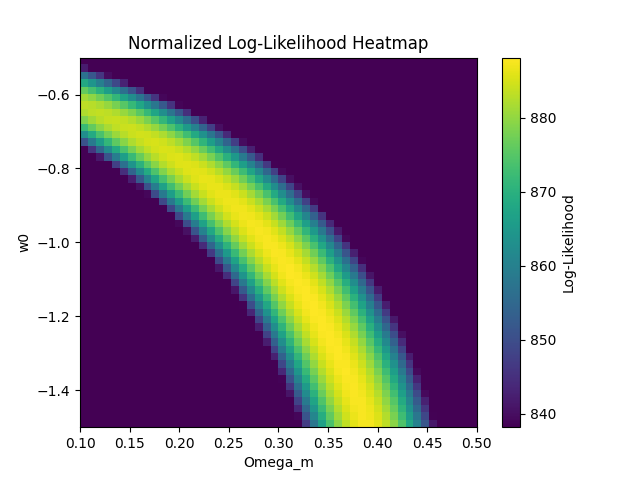
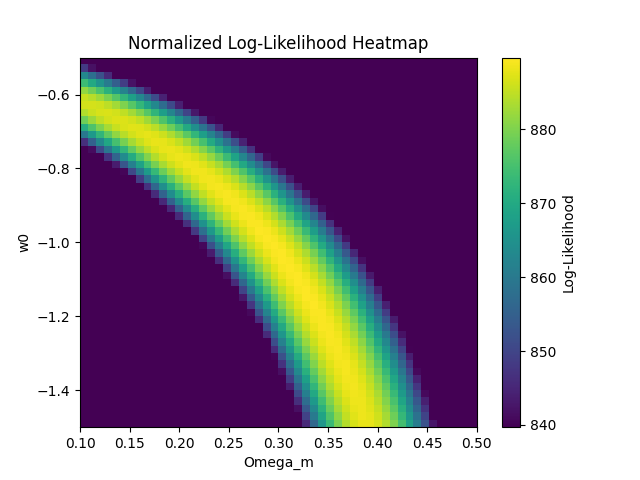
Allow selecting a cosmology

diff --git a/src/deschack2026/fit_sim_data.py b/src/deschack2026/fit_sim_data.py
@@ -30,7 +30,9 @@ m_std = 0.1
 z_std = 0.05
 
 
-def main(savename="posterior_samples", key=jax.random.PRNGKey(43), savefigs=True):
+def main(
+    savename="posterior_samples", key=jax.random.PRNGKey(43), savefigs=True, cosmo_param="wCDM"
+):
     z_max = 2.0
     cosmology = cg.Cosmology()
     # In principle can use any Cosmology for fiducial simulation
@@ -85,6 +87,8 @@ def main(savename="posterior_samples", key=jax.random.PRNGKey(43), savefigs=True
     opt_cosmology = cg.Cosmology()
     opt_cosmology.Omega_m.to_dynamic()
     opt_cosmology.w0.to_dynamic()
+    if cosmo_param == "w0waCDM":
+        opt_cosmology.wa.to_dynamic()
     load_dat = np.load("simulated_dataset.npz")
     NLL = NormalizedLikelihood(
         load_dat["z_sel"], load_dat["m_sel"], load_dat["z_std"], load_dat["m_std"], opt_cosmology
@@ -94,7 +98,11 @@ def main(savename="posterior_samples", key=jax.random.PRNGKey(43), savefigs=True
     # --------------------------------------------------------------------
     if savefigs:
         OM_grid, w0_grid = np.meshgrid(np.linspace(0.1, 0.5, 50), np.linspace(-1.5, -0.5, 50))
-        params = np.column_stack([OM_grid.ravel(), w0_grid.ravel()])
+        if cosmo_param == "w0waCDM":
+            wa_grid = np.zeros_like(OM_grid)
+            params = np.column_stack([OM_grid.ravel(), w0_grid.ravel(), wa_grid.ravel()])
+        else:
+            params = np.column_stack([OM_grid.ravel(), w0_grid.ravel()])
         nll = jax.vmap(NLL.log_likelihood)(jnp.array(params))
         plt.imshow(
             nll.reshape(OM_grid.shape),
@@ -130,6 +138,7 @@ def main(savename="posterior_samples", key=jax.random.PRNGKey(43), savefigs=True
     true_params_plot = np.array(NLL.get_values())
     omega_bounds = (0.01, 1.0)
     w0_bounds = (-2.0, 0.0)
+    wa_bounds = (-3.0, 1.0)
 
     batched_log_likelihood = jax.jit(jax.vmap(NLL.log_likelihood))
 
@@ -143,20 +152,30 @@ def main(savename="posterior_samples", key=jax.random.PRNGKey(43), savefigs=True
             & (theta_batch_jax[:, 1] > w0_bounds[0])
             & (theta_batch_jax[:, 1] < w0_bounds[1])
         )
+        if cosmo_param == "w0waCDM":
+            in_bounds = (
+                in_bounds
+                & (theta_batch_jax[:, 2] > wa_bounds[0])
+                & (theta_batch_jax[:, 2] < wa_bounds[1])
+            )
         ll = batched_log_likelihood(theta_batch_jax)
         return np.where(np.asarray(in_bounds), np.asarray(ll), -np.inf)
 
     ndim = 2
+    if cosmo_param == "w0waCDM":
+        ndim = 3
     nwalkers = 8
     nsteps = 5000
     nburn = 500
-    thin = 250
+    thin = 10  # 250
 
     p0 = np.tile(true_params_plot, (nwalkers, 1)) + 1e-12 * np.random.standard_normal(
         (nwalkers, ndim)
     )
     p0[:, 0] = np.clip(p0[:, 0], omega_bounds[0] + 1e-5, omega_bounds[1] - 1e-5)
     p0[:, 1] = np.clip(p0[:, 1], w0_bounds[0] + 1e-5, w0_bounds[1] - 1e-5)
+    if cosmo_param == "w0waCDM":
+        p0[:, 2] = np.clip(p0[:, 2], wa_bounds[0] + 1e-5, wa_bounds[1] - 1e-5)
 
     sampler = emcee.EnsembleSampler(nwalkers, ndim, log_probability_batch, vectorize=True)
     sampler.run_mcmc(p0, nsteps, progress=True)
@@ -166,17 +185,21 @@ def main(savename="posterior_samples", key=jax.random.PRNGKey(43), savefigs=True
     if savefigs:
         fig = corner.corner(
             samples,
-            labels=["Omega_m", "w0"],
+            labels=["Omega_m", "w0", "wa"] if cosmo_param == "w0waCDM" else ["Omega_m", "w0"],
             truths=true_params_plot,
             show_titles=True,
             title_fmt=".3f",
         )
         fig.suptitle(f"Cosmology Posterior Corner Plot (Proper Fit Selected Data)", y=1.02)
-        fig.savefig(f"cosmology_corner_plot_proper-fit-selected-data.png", bbox_inches="tight")
+        fig.savefig(
+            f"cosmology_corner_plot_cosmo-{cosmo_param}_proper-fit-selected-data.png",
+            bbox_inches="tight",
+        )
         plt.close(fig)
 
     np.savez(f"{savename}.npz", samples=samples, true_params=true_params_plot)
 
 
 if __name__ == "__main__":
-    main()
+    main(cosmo_param="w0waCDM")
+    main(cosmo_param="wCDM")

diff --git a/src/deschack2026/generate_sims.py b/src/deschack2026/generate_sims.py
@@ -54,7 +54,7 @@ class NaiveLikelihood(ck.Module):
         return -self.log_likelihood()
 
 
-def main(FIT_DATA_MODE, key=jax.random.PRNGKey(42), just_generate=False):
+def main(FIT_DATA_MODE, key=jax.random.PRNGKey(42), just_generate=False, cosmo_param="wCDM"):
     # Sample redshifts
     # --------------------------------------------------------------------
     key, subkey = jax.random.split(key)
@@ -162,13 +162,19 @@ def main(FIT_DATA_MODE, key=jax.random.PRNGKey(42), just_generate=False):
     opt_cosmology = cg.Cosmology()
     opt_cosmology.Omega_m.to_dynamic()
     opt_cosmology.w0.to_dynamic()
+    if cosmo_param == "w0waCDM":
+        opt_cosmology.wa.to_dynamic()
     print(opt_cosmology)
     NLL = NaiveLikelihood(z_fit, m_fit, z_std, m_std, opt_cosmology)
     print(NLL.dynamic_params)
     true_params = NLL.get_values()
 
     OM_grid, w0_grid = np.meshgrid(np.linspace(0.1, 0.5, 50), np.linspace(-1.5, -0.5, 50))
-    params = np.column_stack([OM_grid.ravel(), w0_grid.ravel()])
+    if cosmo_param == "w0waCDM":
+        wa_grid = np.zeros_like(OM_grid)
+        params = np.column_stack([OM_grid.ravel(), w0_grid.ravel(), wa_grid.ravel()])
+    else:
+        params = np.column_stack([OM_grid.ravel(), w0_grid.ravel()])
     nll = jax.vmap(NLL.log_likelihood)(jnp.array(params))
     plt.imshow(
         nll.reshape(OM_grid.shape),
@@ -189,6 +195,8 @@ def main(FIT_DATA_MODE, key=jax.random.PRNGKey(42), just_generate=False):
     true_params_plot = np.array(NLL.get_values())
     omega_bounds = (0.01, 1.0)
     w0_bounds = (-2.0, 0.0)
+    if cosmo_param == "w0waCDM":
+        wa_bounds = (-3.0, 1.0)
 
     batched_log_likelihood = jax.jit(jax.vmap(NLL.log_likelihood))
 
@@ -202,10 +210,18 @@ def main(FIT_DATA_MODE, key=jax.random.PRNGKey(42), just_generate=False):
             & (theta_batch_jax[:, 1] > w0_bounds[0])
             & (theta_batch_jax[:, 1] < w0_bounds[1])
         )
+        if cosmo_param == "w0waCDM":
+            in_bounds = (
+                in_bounds
+                & (theta_batch_jax[:, 2] > wa_bounds[0])
+                & (theta_batch_jax[:, 2] < wa_bounds[1])
+            )
         ll = batched_log_likelihood(theta_batch_jax)
         return np.where(np.asarray(in_bounds), np.asarray(ll), -np.inf)
 
     ndim = 2
+    if cosmo_param == "w0waCDM":
+        ndim = 3
     nwalkers = 8
     nsteps = 5000
     nburn = 500
@@ -218,6 +234,8 @@ def main(FIT_DATA_MODE, key=jax.random.PRNGKey(42), just_generate=False):
     )
     p0[:, 0] = np.clip(p0[:, 0], omega_bounds[0] + 1e-5, omega_bounds[1] - 1e-5)
     p0[:, 1] = np.clip(p0[:, 1], w0_bounds[0] + 1e-5, w0_bounds[1] - 1e-5)
+    if cosmo_param == "w0waCDM":
+        p0[:, 2] = np.clip(p0[:, 2], wa_bounds[0] + 1e-5, wa_bounds[1] - 1e-5)
 
     sampler = emcee.EnsembleSampler(nwalkers, ndim, log_probability_batch, vectorize=True)
     sampler.run_mcmc(p0, nsteps, progress=True)
@@ -226,16 +244,21 @@ def main(FIT_DATA_MODE, key=jax.random.PRNGKey(42), just_generate=False):
 
     fig = corner.corner(
         samples,
-        labels=["Omega_m", "w0"],
+        labels=["Omega_m", "w0", "wa"] if cosmo_param == "w0waCDM" else ["Omega_m", "w0"],
         truths=true_params_plot,
         show_titles=True,
         title_fmt=".3f",
     )
     fig.suptitle(f"Cosmology Posterior Corner Plot (Naive Fit {fit_data_label} Data)", y=1.02)
-    fig.savefig(f"cosmology_corner_plot_naive-fit-{FIT_DATA_MODE}.png", bbox_inches="tight")
+    fig.savefig(
+        f"cosmology_corner_plot_naive_cosmo-{cosmo_param}-fit-{FIT_DATA_MODE}.png",
+        bbox_inches="tight",
+    )
     plt.close(fig)
 
 
 if __name__ == "__main__":
-    main("noised")
-    main("selected")
+    main("noised", cosmo_param="w0waCDM")
+    main("selected", cosmo_param="w0waCDM")
+    main("noised", cosmo_param="wCDM")
+    main("selected", cosmo_param="wCDM")
